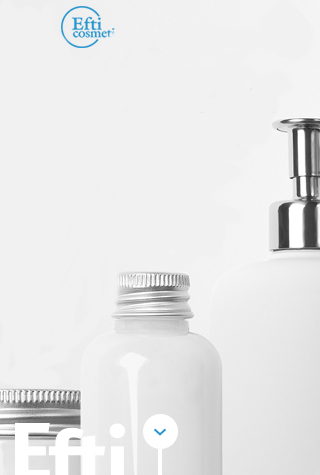
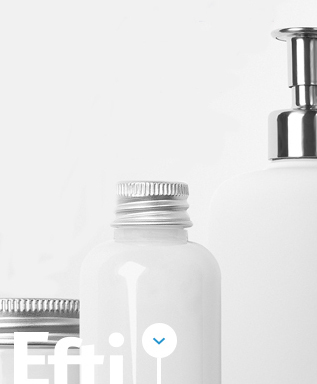
fix tree of div for main & fix main320.jpg

diff --git a/verstka.html b/verstka.html
@@ -36,34 +36,23 @@
                     <div>контакты</div>
                 </div>
             </div>
-            <!-- <div class="row"> -->
-                <!-- <div class="col-1"> -->
-                <!-- E -->
-                <!-- </div> -->
-                <!-- <div class="col"> -->
-                    <!-- <h2>О&nbsp;компании</h2> -->
-                <!-- </div> -->
-                <!-- <div class="col-1"> -->
-                <!-- F -->
-                <!-- </div> -->
-            <!-- </div> -->
             <div class="row">
-                <!-- <div class="col-1"> -->
-                <!-- E -->
-                <!-- </div> -->
-                <div class="col-12">
-                    <div class="main">
-                      <div class="main-text">
-                       <div class="h2"> <h2>мы создаем  косметику </h2>
-                       </div>
-                       <h6> Самые актуальные научные <br /> тенденции
-                            и рыночые  <br />тренды в области гигиены,
-                            <br /> парфюмерии и косметики
-                        </h6>
-                      </div>
+                <div class="main">
+                    <div class="col-10">
+                        <div class="main-text">
+                            <div class="h2">
+                                <h2>мы создаем  косметику</h2>
+                            </div>
+                            <div>
+                                Самые актуальные научные тенденции и
+                                рыночые тренды в области гигиены,
+                                парфюмерии и косметики
+                            </div>
+                        </div>
                     </div>
+                </div>
 
-
+                <div class="col-12">
                     <div class="peno">
                         <h4 style="border: 1px solid black">
                             пеномоющая <br /> продукция

diff --git a/css/base.css b/css/base.css
@@ -1,16 +1,19 @@
 /* Extra small devices (portrait phones, less than 576px) */
 /* No media query since this is the default in Bootstrap */
 
+.main {
+    background-color: #f1f1f1;
+}
 
 /* Small devices (landscape phones, 320px and up) */
 
 @media (min-width: 320px) {
     .container-fluid {
-        padding: -30px;
-        background-color: #fef3c5;
-        margin-left: -15px;
-        margin-right: -15px;
-        max-width: 100%;
+        /* padding: -30px; */
+        /* background-color: #fef3c5; */
+        /* margin-left: -15px; */
+        /* margin-right: -15px; */
+        /* max-width: 100%; */
     }
     .main {
         border: 1px solid red;
@@ -23,8 +26,7 @@
 
     }
     .main-text {
-        padding-top: 100px;
-        padding-bottom: 200px;
+        padding-top: 20px;
     }
     .h2 {
         font-family: "Lucida Sans Unicode" Cursive ;
